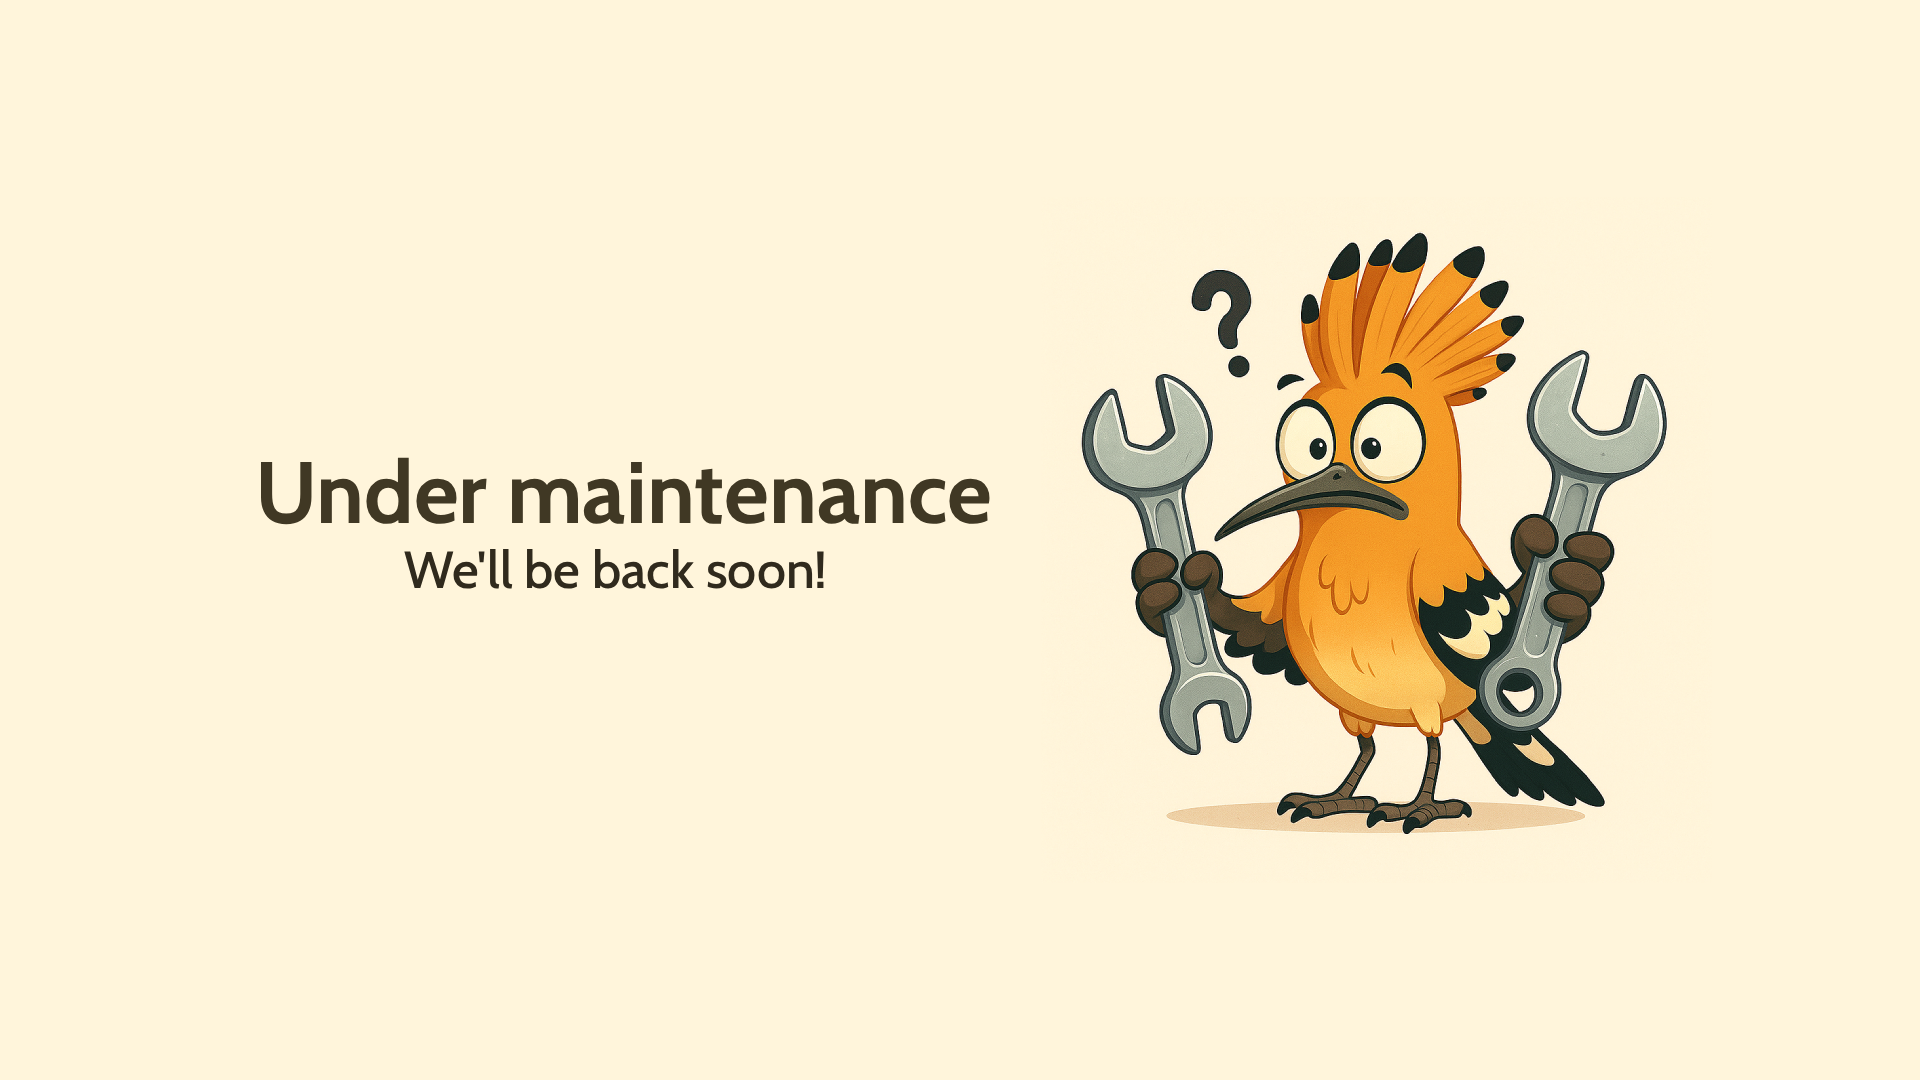
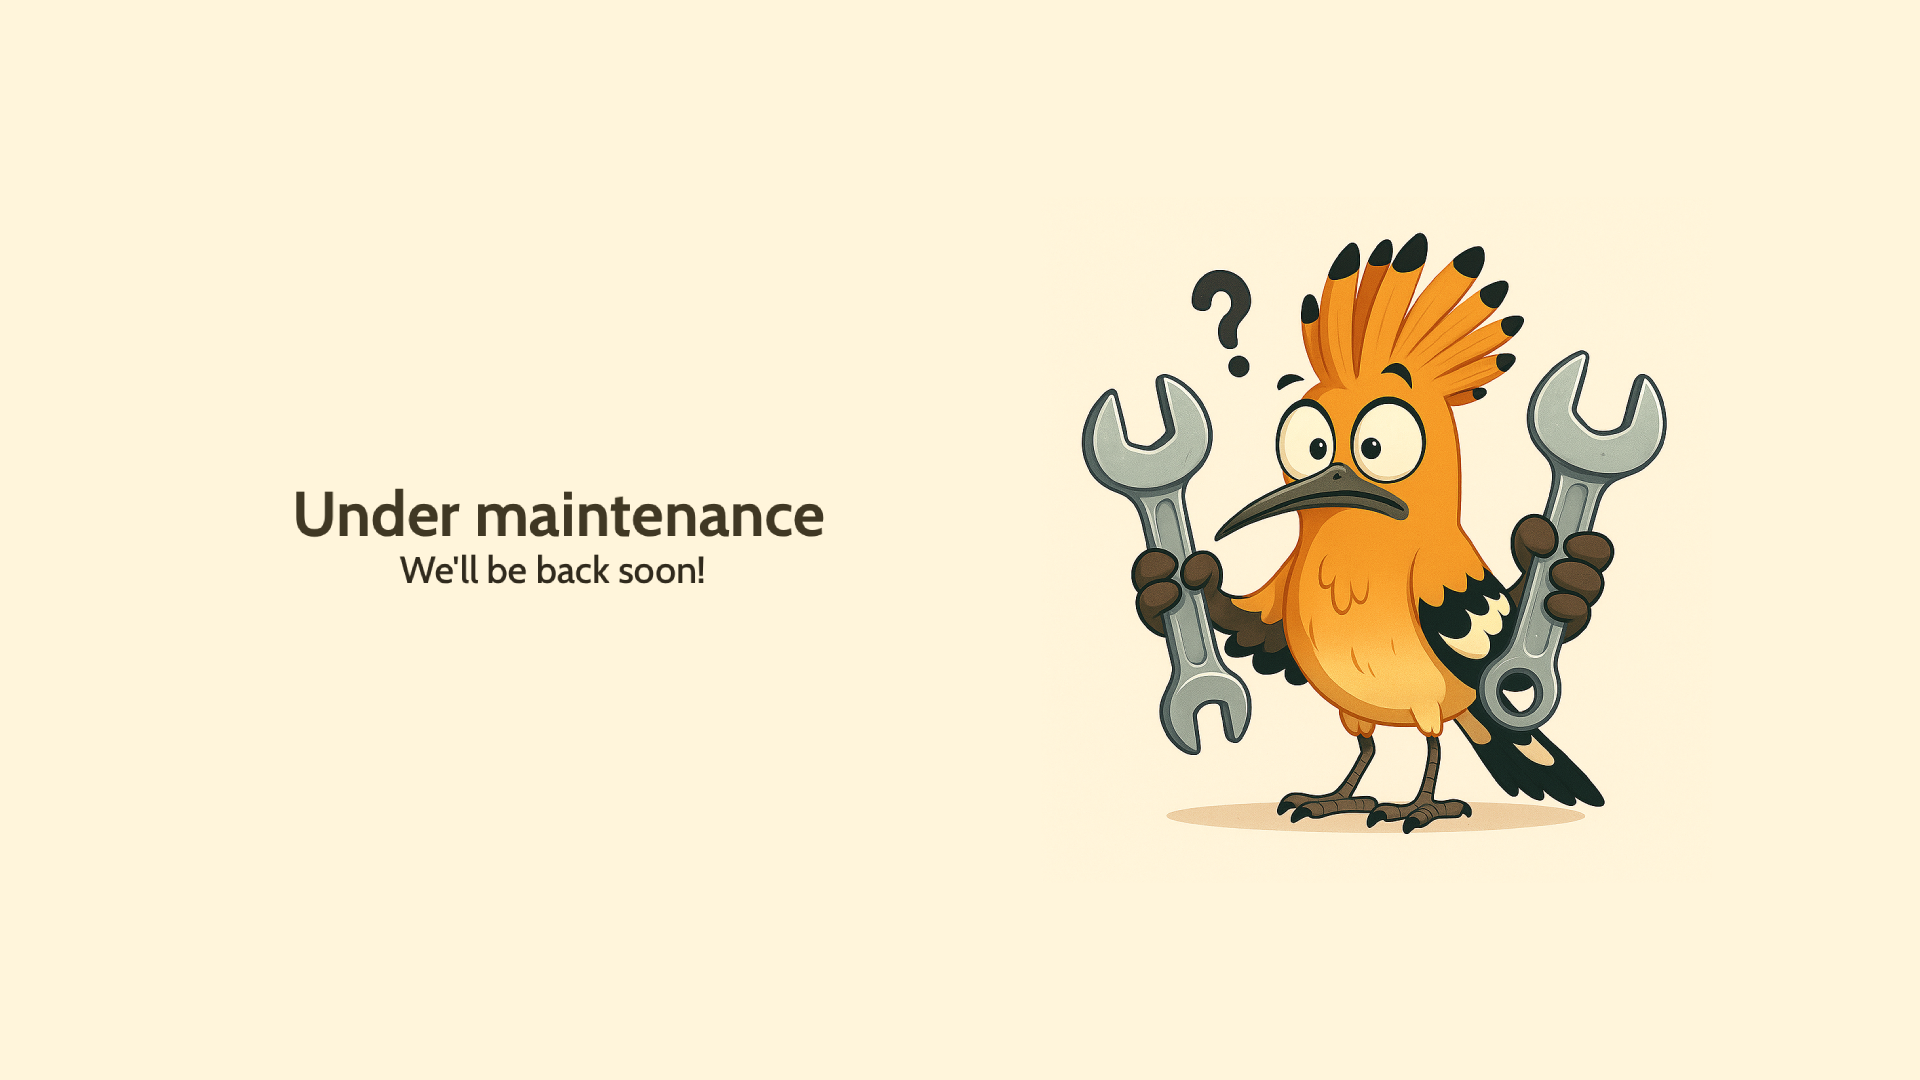
fixes for maintenance home styles

Changed region(s): [[0.125, 0.4278, 0.5312, 0.55]]

diff --git a/src/app/[lang]/layout.jsx b/src/app/[lang]/layout.jsx
@@ -25,33 +25,36 @@ export default function RootLayout({children, params}) {
 
 	return (
 		<html lang={lang} className={roboto.className} suppressHydrationWarning>
-			<head>
-				<meta name="description" content={t(lang, 'web.description')}/>
-				<meta charSet="UTF-8"/>
-				<meta name="viewport" content="width=device-width, initial-scale=1, maximum-scale=1, user-scalable=no"/>
+		<head>
+			<title>
+				{t(lang, 'web.title')}
+			</title>
+			<meta name="description" content={t(lang, 'web.description')}/>
+			<meta charSet="UTF-8"/>
+			<meta name="viewport" content="width=device-width, initial-scale=1, maximum-scale=1, user-scalable=no"/>
 
-				<meta name="language" content={lang}/>
-				<CanonicalHead lang={lang}/>
-				{/*<link rel="canonical" href="https://balearica.uib.eu"/>*/}
-				{/*<link rel="alternate" hrefLang="en" href="https://balearica.uib.eu"/>*/}
-				{/*<link rel="alternate" hrefLang="es" href="https://balearica.uib.es"/>*/}
-				{/*<link rel="alternate" hrefLang="ca" href="https://balearica.uib.ca"/>*/}
-				{/*<link rel="alternate" hrefLang="x-default" href="https://balearica.uib.eu"/>*/}
+			<meta name="language" content={lang}/>
+			<CanonicalHead lang={lang}/>
+			{/*<link rel="canonical" href="https://balearica.uib.eu"/>*/}
+			{/*<link rel="alternate" hrefLang="en" href="https://balearica.uib.eu"/>*/}
+			{/*<link rel="alternate" hrefLang="es" href="https://balearica.uib.es"/>*/}
+			{/*<link rel="alternate" hrefLang="ca" href="https://balearica.uib.ca"/>*/}
+			{/*<link rel="alternate" hrefLang="x-default" href="https://balearica.uib.eu"/>*/}
 
-				<link rel="icon" type="image/png" href="/images/favicon/favicon-96x96.png" sizes="96x96"/>
-				<link rel="icon" type="image/svg+xml" href="/images/favicon/favicon.svg"/>
-				<link rel="shortcut icon" href="/images/favicon/favicon.ico"/>
-				<link rel="apple-touch-icon" sizes="180x180" href="/images/favicon/apple-touch-icon.png"/>
-				<meta name="apple-mobile-web-app-title" content="Balearica"/>
-				<link rel="manifest" href="/images/favicon/site.webmanifest"/>
+			<link rel="icon" type="image/png" href="/images/favicon/favicon-96x96.png" sizes="96x96"/>
+			<link rel="icon" type="image/svg+xml" href="/images/favicon/favicon.svg"/>
+			<link rel="shortcut icon" href="/images/favicon/favicon.ico"/>
+			<link rel="apple-touch-icon" sizes="180x180" href="/images/favicon/apple-touch-icon.png"/>
+			<meta name="apple-mobile-web-app-title" content="Balearica"/>
+			<link rel="manifest" href="/images/favicon/site.webmanifest"/>
 
-				<meta property="og:title" content={t(lang, 'web.title')}/>
-				<meta property="og:description" content={t(lang, 'web.description')}/>
-				<meta property="og:image" content="images/pages/home/home.jpg"/>
-				<meta property="og:url" content="https://balearica.uib.eu"/>
-				<meta property="og:type" content="website"/>
-			</head>
-			<body className="w-full min-h-screen m-0">
+			<meta property="og:title" content={t(lang, 'web.title')}/>
+			<meta property="og:description" content={t(lang, 'web.description')}/>
+			<meta property="og:image" content="images/pages/home/home.jpg"/>
+			<meta property="og:url" content="https://balearica.uib.eu"/>
+			<meta property="og:type" content="website"/>
+		</head>
+		<body className="w-full min-h-screen m-0">
 				<Header lang={lang} className="min-h-[64px] py-[12px]" locales={AVAILABLE_LOCALES}/>
 				<main className="min-h-[calc(100vh-64px-12px*2)] w-full">
 					<Providers lang={lang}>

diff --git a/src/sections/Header.jsx b/src/sections/Header.jsx
@@ -33,7 +33,8 @@ export default function Header({lang, locales, className}) {
 		]
 	}, [lang]);
 
-	const isHome = pathname === `/${lang}`;
+	const isUnderMaintenance= process.env.MAINTENANCE === "true";
+	const isHome = isUnderMaintenance ? false : pathname === `/${lang}`;
 
 	return (
 		<Navbar maxWidth="full" shouldHideOnScroll={false} position="sticky" classNames={{wrapper: "md:px-14"}} className={clsx(
